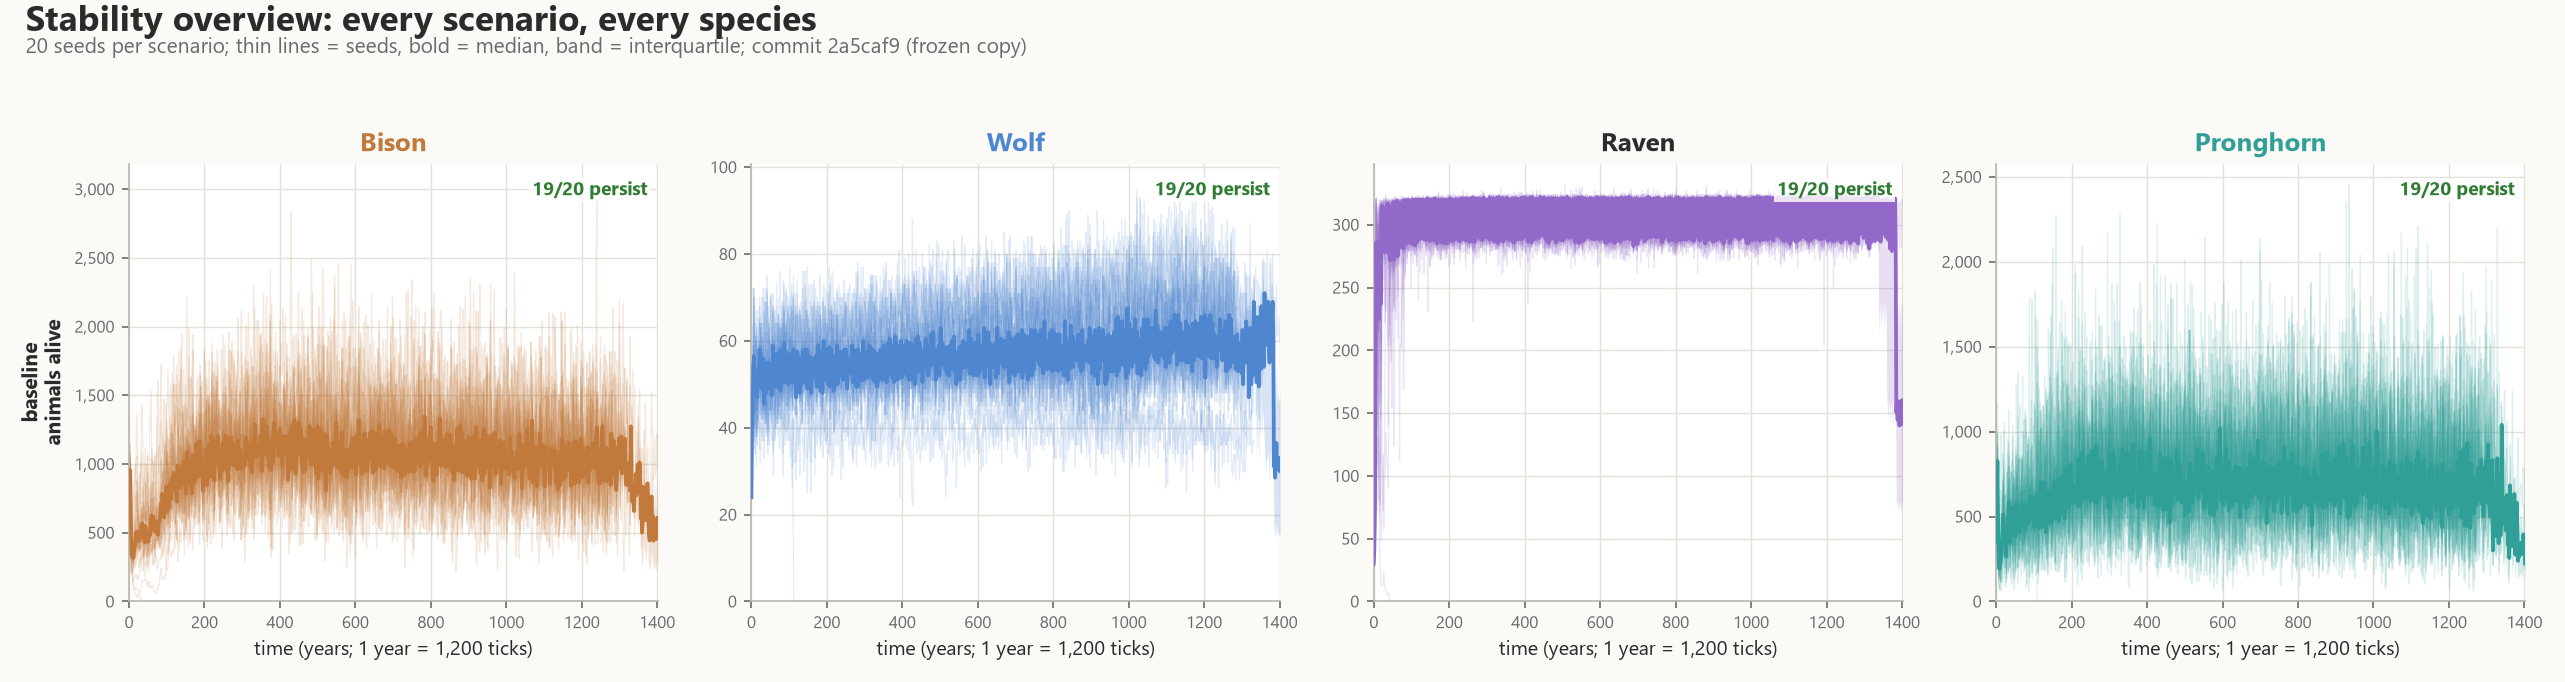
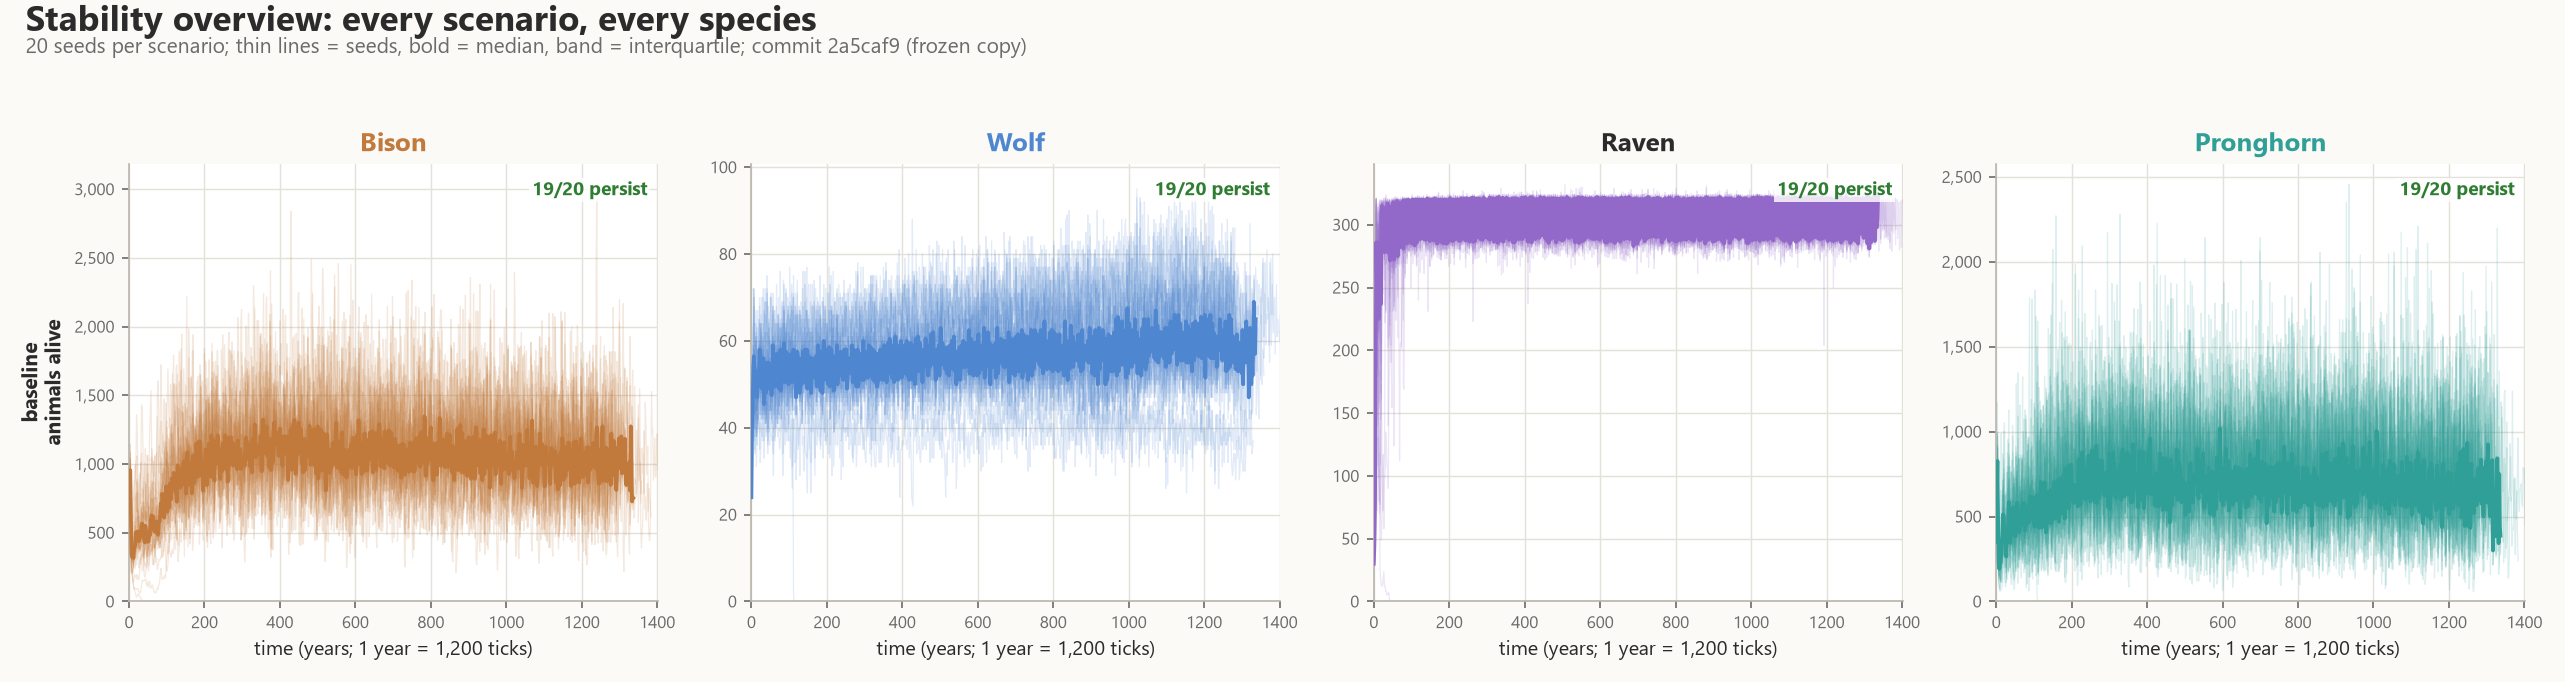
Round 12 (stills 7, 5, 6, 5, 7, 6); charts: population medians end where few worlds remain (no fake late collapse), table title clear of the axis

diff --git a/tools/charts.py b/tools/charts.py
@@ -388,6 +388,10 @@ def draw_overlay(ax, sc: Scenario, key: str, t: np.ndarray, m: np.ndarray, log: 
     for row in m:
         ax.plot(t, row, color=col, lw=0.6, alpha=seed_alpha, zorder=2)
     med, q1, q3 = stats(m)
+    # same rule as the trait charts: where fewer than 5 worlds (or a quarter) are still running, the median is mostly the
+    # zeros of a world that died long before, so it would fake a late collapse; end the median and band there
+    thin = np.sum(np.isfinite(m), axis=0) < max(5, 0.25 * m.shape[0])
+    med, q1, q3 = (np.where(thin, np.nan, a) for a in (med, q1, q3))
     ax.fill_between(t, q1, q3, color=col, alpha=0.22, lw=0, zorder=3)
     ax.plot(t, med, color=col, lw=lw_med, zorder=4)
     pop_scale(ax, log)
@@ -649,7 +653,7 @@ def chart_overview(sc: Scenario, meta: dict, log: bool, saved: list[Path]):
 
     axt = fig.add_subplot(gs[n_top:, 1])
     axt.axis("off")
-    axt.set_title("Stability metrics (median across seeds)", loc="left", pad=30)
+    axt.set_title("Stability metrics (median across seeds)", loc="left", pad=2)
     has_shock = bool(sc.events())
     head = ["species", "CV", "near-zero", "longest\nnear-zero", "peaks"]
     if has_shock:

diff --git a/MORNING.md b/MORNING.md
@@ -1,6 +1,6 @@
 # Good morning: Tallgrass overnight report
 
-*(Updated 11:27 Sunday. I keep working until the deadline in `.claude/hooks/run_until.txt` (Sunday 12:00); this file is refreshed at every milestone.)*
+*(Updated 11:41 Sunday. I keep working until the deadline in `.claude/hooks/run_until.txt` (Sunday 12:00); this file is refreshed at every milestone.)*
 
 ## How to run it (one step)
 Open **https://tallgrass.stewartgregerson.workers.dev** in Chrome or Edge. Click once anywhere to turn on sound. (The live build is redeployed after each verified milestone; the time of the last deploy is in the line below.)
@@ -129,6 +129,7 @@ The default sim is now **checkpoint v5 on a 2x valley calendar** (since about 06
 | 9 (10:19) | blind critic, stills of the 09:51 build | 7 | 5 | 6 | 5 | 7 | 6 |
 | 10 (10:57) | Gemini, video before the ribbon and takedown | 7 | 6 | 3 | 8 | 9 | 5 |
 | 11 (11:24) | Gemini, video of the live 11:19 build | 6 | 7 | 2 | 5 | 8 | 3 |
+| 12 (11:35) | blind critic, stills of the live 11:19 build | 7 | 5 | 6 | 5 | 7 | 6 |
 
 Every issue and its triage is in `REVIEWS.md`.
 - Round 4's verdict: animals were illegible and looked motionless at drone distance. In the drone shots a wolf is about 20 px tall, so planted feet can't read. The animal work since then targets exactly that, with whole-body motion scaled to camera distance, larger minimum sizes and a kill lunge.
@@ -139,6 +140,7 @@ Every issue and its triage is in `REVIEWS.md`.
 - Round 9 (on the 09:51 build with the final quick round): ecosystem, UI and keep-watching each up a point (7, 5, 6, 5, 7, 6). Its top two are unchanged (flat wolves and ravens, evolution that stops by year 300); new complaints are muddy winter and drought colour, herds as one carpet, and rain streaks in the map view (fixed at 10:23). Its four charts were stale copies from round 8, my mistake, so its chart-legend complaints were already fixed.
 - Round 10 (Gemini, video of the final build before the riparian ribbon): its best scores yet (7, 6, 3, 8, 9, 5 against round 8's 5, 6, 2, 4, 8, 3); it calls the fast-forward view "genuinely mesmerizing" and the UI and territory overlay excellent. Close-up animation is still its top complaint (sliding, a kill without struggle, metronomic ravens), even after tonight's motion rounds, so the 0.25 s struggle and the gliding ravens didn't read on video. The struggle is now about 1.2 s (deployed 11:19, checked in a kill rig, not yet on video).
 - Round 11 (Gemini, the live 11:19 build, 27 minutes later): 6, 7, 2, 5, 8, 3. The build differs only by the riparian ribbon and the longer takedown, and Gemini called the same territory overlay "brilliant" in round 10 and "visually abrasive" in round 11, so single Gemini rounds swing by 2 to 3 points on their own. Its consistent message across all rounds: close-range animation (sliding feet, and now wolves that stand still beside the struggling prey) is the weakest part. That is the first item for the next session.
+- Round 12 (stills critic, the live 11:19 build): the same scores as round 9, so the stills scores have plateaued here; the next gains are in the predator dynamics and close-range animation it keeps naming. It also read the 1,400-year chart's medians dropping at the very end as a late collapse: that was a chart artifact (one dead world's zeros dominating the median once the others finished), fixed at 11:38 and the charts regenerated.
 
 ## Decisions you might want to overrule
 - **Stack:** TypeScript + Three.js instead of Godot (ADR-001 in `DECISIONS.md`): one language for sim, harness and renderer, headless GPU capture, and the URL build.

diff --git a/review/round-12/critique.md b/review/round-12/critique.md
@@ -1,0 +1,21 @@
+# Round 12 blind critique (11:35 Sunday, stills of the live 11:19 build 86eb206 from a clean worktree with ?dim=0, and the current charts)
+
+Scores (1 to 10): Visual quality 7 / Readability 5 / Sense of life and motion 6 / Ecosystem believability 5 / UI clarity 7 / "Would I keep watching?" 6
+
+Top issues, as the critic ranked them (summary; the full reply is in the session transcript):
+1. Critical: wolves and ravens hold near a ceiling instead of reacting to prey (wolf CV 0.11, ravens 0.05); also read the 1,400-year chart's medians dropping together at the very end as a late collapse.
+2. Major: evolution plateaus by year 300 and runs the wrong way (herding falls, bison litter climbs to 2.4).
+3. Major: wolves hard to find at normal viewing distance; dark herds at dusk and night.
+4. Major: herds form rings, arcs and mats.
+5. Major: wide shots muddy and hazy; black creek; the world edge visible from the top view.
+6. Major: shocks leave no lasting mark.
+7. Minor: season label and the look disagree in the fast-forward graph shot (late winter, green meadow) and long shadows at "midday".
+8. Minor: the chronicle quiet in year 2; predators flat at 30 through year 1.
+9. Minor: big graph bands short; mixed baselines.
+10. Minor: rocks like smooth eggs; follow camera puts its subject under a panel.
+
+What's working: golden-hour lighting and palette, moonlit snow and rain, the inspector, the chronicle's writing and title cards, the territory overlay, real herbivore booms and busts with 17 to 20 of 20 worlds surviving every shock.
+
+The single change that would help most: make wolf and raven numbers depend on prey and carcasses.
+
+Lead's note: the end-of-run median drop was a chart artifact (the one collapsed world padded with zeros dominating the median once the others finished); fixed in tools/charts.py at 11:38 and the acceptance charts regenerated.

diff --git a/REVIEWS.md b/REVIEWS.md
@@ -204,3 +204,6 @@ Gemini: Visual 6, Readability 7, Life 2, Ecosystem 5, UI 8, Keep watching 3 (rou
 | G3 | Territory overlay too opaque | REJECT for now | UI | Round 10 Gemini praised the same overlay; round 8 and 9 stills critics asked for it stronger. |
 | G4 | Stampede feels weightless | DEFER | lead | Flight speed is sim; slower acceleration would be render-side. |
 | G5 | Carcasses stiff, no tearing | DEFER | animals | Carcasses settle on the slope since round 7; feeding tugs exist but read only up close. |
+
+## Round 12 (11:35, blind critic, stills of the live 11:19 build and the current charts) -> `review/round-12/critique.md`
+Stills critic: 7, 5, 6, 5, 7, 6, the same as round 9: the stills scores have plateaued at this level. New and fixed: the chart's late "collapse" was an artifact (a dead world's zeros dominating the median as the other worlds finished); population medians now end where fewer than 5 worlds remain, like the trait medians (tools/charts.py, 11:38), and the table title no longer overlaps the persistence axis. Everything else repeats rounds 8 and 9 and is triaged there.
